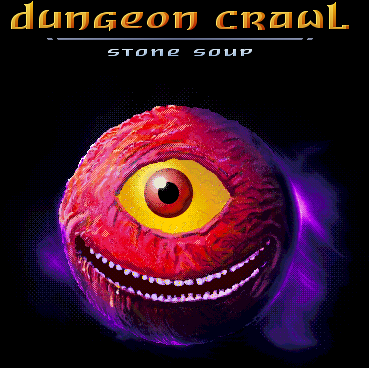
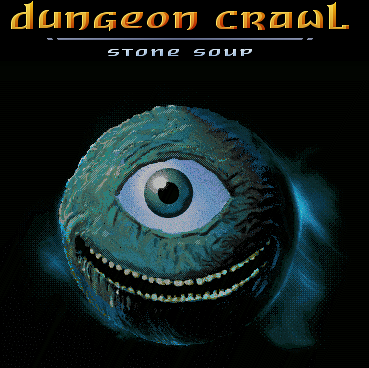
Revive eyes of draining as rare deep negative energy eyes (DracoOmega)
Another significantly revised monster revival meant mostly to help with
more variety for a branch lacking in it. Eyes of draining were removed
in 049c24a for being harmless to magic-less builds, entirely harmless
without other enemies, and being too slow (at speed 5) to actually stick
to other enemies as they were otherwise supposed to spawn with. These
revived eyes of draining try to address all of these matters, while also
dealing with a weird bit of inconsistency in "Draining Gaze" having no
connection to other draining effects

 * These now have normal speed actions, M_CAUTIOUS, and fast movement.
   (Mostly, this means trying to walk away to keep them out of LOS is
    entirely unteneable without additional help.)

 * They now count as the leader for their band, so other monsters will
   follow them if they get ahead. (They also get somewhat customized
   bands in Slime, to always place a very-loosely-connected monster
   that actually deals damage to finish the player off.)

 * They lose their previous antimagic theming to serve as a serious rN
   check, with the new Draining Gaze doing no damage to instead directly
   drain for 10% of one's max health post-draining. (Following casts will
   drain 9%, then 8.1%, then 7.29%, and so on).

(While this does lead to them being harmless to those with full rN+++,
which several species get for free, this is hardly an unknown consequence
to Crawl- compare to how harmless death drakes are to the undead species
[…]

diff --git a/crawl-ref/source/mon-cast.cc b/crawl-ref/source/mon-cast.cc
@@ -146,6 +146,7 @@ static void _cast_injury_mirror(monster &mons, mon_spell_slot, bolt&);
 static void _cast_smiting(monster &mons, mon_spell_slot slot, bolt&);
 static void _cast_brain_bite(monster &mons, mon_spell_slot slot, bolt&);
 static void _cast_beckoning_gale(monster &mons, mon_spell_slot slot, bolt&);
+static void _cast_draining_gaze(monster &mons, mon_spell_slot slot, bolt&);
 static void _cast_resonance_strike(monster &mons, mon_spell_slot, bolt&);
 static void _cast_call_down_lightning(monster &caster, mon_spell_slot, bolt&);
 static void _cast_pyroclastic_surge(monster &caster, mon_spell_slot, bolt&);
@@ -459,6 +460,14 @@ static const map<spell_type, mons_spell_logic> spell_to_logic = {
     { SPELL_SMITING, { _always_worthwhile, _cast_smiting, } },
     { SPELL_BRAIN_BITE, { _always_worthwhile, _cast_brain_bite, } },
     { SPELL_BECKONING_GALE, { _foe_not_nearby, _cast_beckoning_gale, } },
+    { SPELL_DRAINING_GAZE, {
+        [](const monster &caster) {
+            const actor* foe = caster.get_foe();
+            ASSERT(foe);
+            return _negative_energy_spell_goodness(foe);
+        },
+        _cast_draining_gaze,
+    } },
     { SPELL_CALL_DOWN_LIGHTNING, { _foe_not_nearby, _cast_call_down_lightning, _zap_setup(SPELL_CALL_DOWN_LIGHTNING) } },
     { SPELL_RESONANCE_STRIKE, { _always_worthwhile, _cast_resonance_strike, } },
     { SPELL_CREEPING_FROST, { _foe_near_wall,
@@ -481,7 +490,7 @@ static const map<spell_type, mons_spell_logic> spell_to_logic = {
             caster.get_foe()->paralyse(&caster, 2 + random2(3));
         },
     } },
-    { SPELL_DRAINING_GAZE, {
+    { SPELL_ANTIMAGIC_GAZE, {
         _caster_sees_foe,
         [](monster &caster, mon_spell_slot slot, bolt&) {
             flash_tile(caster.get_foe()->pos(), MAGENTA, 120, TILE_BOLT_DRAINING_GAZE);
@@ -1415,6 +1424,34 @@ static void _cast_brain_bite(monster &caster, mon_spell_slot slot, bolt&)
     }
     else
         foe->drain_magic(&caster, mons_spellpower(caster, slot.spell));
+}
+
+static void _cast_draining_gaze(monster &caster, mon_spell_slot, bolt&)
+{
+    actor* foe = caster.get_foe();
+    ASSERT(foe);
+    int drain = 0;
+
+    if (foe->is_player())
+    {
+        // 10% of max HP post-draining: takes 8 casts to drain to 50% at rN0,
+        // 15 at rN+, and 29 at rN++. No minimum amount.
+        flash_tile(foe->pos(), CYAN, 160, TILE_BOLT_DRAINING_GAZE);
+        drain = 75 * you.hp_max / (you.hp_max - you.hp_max_adj_temp);
+        drain_player(drain, false, false, false);
+    }
+    else
+    {
+        // 20% of HD draining, with a minimum of draining twice.
+        flash_tile(foe->pos(), CYAN, 60, TILE_BOLT_DRAINING_GAZE);
+        monster* m_foe = foe->as_monster();
+        drain = max(div_round_up(m_foe->get_experience_level()
+                                 - m_foe->get_ench(ENCH_DRAINED).degree, 5), 2);
+        if (m_foe->add_ench(mon_enchant(ENCH_DRAINED, &you, random_range(60, 150), drain)))
+            simple_monster_message(*m_foe, " is drained!");
+
+        _whack(caster, *foe);
+    }
 }
 
 static void _cast_beckoning_gale(monster &caster, mon_spell_slot, bolt&)
@@ -2585,6 +2622,7 @@ bool setup_mons_cast(const monster* mons, bolt &pbolt, spell_type spell_cast,
     case SPELL_CLEANSING_FLAME:
     case SPELL_DRAINING_GAZE:
     case SPELL_CONFUSION_GAZE:
+    case SPELL_ANTIMAGIC_GAZE:
     case SPELL_MARTYRS_KNELL:
     case SPELL_HAUNT:
     case SPELL_VANQUISHED_VANGUARD:
@@ -8034,7 +8072,8 @@ void mons_cast(monster* mons, bolt pbolt, spell_type spell_cast,
                                         60, MONS_GOLDEN_EYE,
                                         40, MONS_SHINING_EYE,
                                         20, MONS_GREAT_ORB_OF_EYES,
-                                        10, MONS_EYE_OF_DEVASTATION);
+                                        10, MONS_EYE_OF_DEVASTATION,
+                                        10, MONS_EYE_OF_DRAINING);
 
             create_monster(
                 mgen_data(mon, SAME_ATTITUDE(mons), mons->pos(), mons->foe,

diff --git a/crawl-ref/source/mon-place.cc b/crawl-ref/source/mon-place.cc
@@ -1987,6 +1987,10 @@ static const map<monster_type, band_set> bands_by_leader = {
         return branch_has_monsters(you.where_are_you)
             || !vault_mon_types.empty();
     }},                           {{ BAND_RANDOM_SINGLE, {1, 3} }}}},
+    { MONS_EYE_OF_DRAINING,        { {2, 0, []() {
+        return branch_has_monsters(you.where_are_you)
+            || !vault_mon_types.empty();
+    }},                           {{ BAND_RANDOM_SINGLE, {1, 2} }}}},
     { MONS_CEREBOV,         { {}, {{ BAND_CEREBOV, {5, 8}, true }}}},
     { MONS_GLOORX_VLOQ,     { {}, {{ BAND_GLOORX_VLOQ, {5, 8}, true }}}},
     { MONS_MNOLEG,          { {}, {{ BAND_MNOLEG, {5, 8}, true }}}},
@@ -2210,6 +2214,14 @@ static band_type _choose_band(monster_type mon_type, int *band_size_p,
             band_size = random2(min(brdepth[BRANCH_ABYSS], you.depth));
         break;
 
+    case MONS_EYE_OF_DRAINING:
+        if (player_in_branch(BRANCH_SLIME))
+        {
+            natural_leader = true;
+            band = BAND_DRAINING_EYE_CORPS;
+        }
+        break;
+
     case MONS_SPHINX_MARAUDER:
          if (player_in_branch(BRANCH_VAULTS))
          {
@@ -2411,6 +2423,10 @@ static const map<band_type, vector<member_possibilities>> band_membership = {
     { BAND_AMOEBA_ORGANS,       {{{MONS_GLASS_EYE, 2},
                                   {MONS_GLOWING_ORANGE_BRAIN, 1}}}},
 
+    { BAND_DRAINING_EYE_CORPS,  {{{MONS_VOID_OOZE, 1},
+                                  {MONS_EYE_OF_DEVASTATION, 2},
+                                  {MONS_GLOWING_ORANGE_BRAIN, 1}}}},
+
     { BAND_MARGERY,             {{{MONS_HELLEPHANT, 4},
                                   {MONS_SEARING_WRETCH, 3}},
 
@@ -2587,6 +2603,7 @@ static const map<band_type, vector<member_possibilities>> band_membership = {
                                   {MONS_SALAMANDER, 1}},
 
                                  {{MONS_SALAMANDER, 1}}}},
+
     { BAND_ROBIN,               {{{MONS_GOBLIN, 3},
                                   {MONS_HOBGOBLIN, 1}}}},
 

diff --git a/crawl-ref/source/mon-spell.h b/crawl-ref/source/mon-spell.h
@@ -784,7 +784,7 @@ static const mon_spellbook mspell_list[] =
 
     {  MST_GHOST_MOTH,
       {
-       { SPELL_DRAINING_GAZE, 100, MON_SPELL_MAGICAL | MON_SPELL_INSTANT },
+       { SPELL_ANTIMAGIC_GAZE, 100, MON_SPELL_MAGICAL | MON_SPELL_INSTANT },
       }
     },
 
@@ -1068,6 +1068,12 @@ static const mon_spellbook mspell_list[] =
       }
     },
 
+    {  MST_EYE_OF_DRAINING,
+      {
+       { SPELL_DRAINING_GAZE, 100, MON_SPELL_MAGICAL | MON_SPELL_INSTANT },
+      }
+    },
+
     {  MST_EYE_OF_DEVASTATION,
       {
        { SPELL_BOLT_OF_DEVASTATION, 60, MON_SPELL_MAGICAL },
@@ -1163,7 +1169,7 @@ static const mon_spellbook mspell_list[] =
     {  MST_ORANGE_CRYSTAL_STATUE,
       {
        { SPELL_SHADOW_CREATURES, 50, MON_SPELL_MAGICAL },
-       { SPELL_DRAINING_GAZE, 25, MON_SPELL_MAGICAL },
+       { SPELL_ANTIMAGIC_GAZE, 25, MON_SPELL_MAGICAL },
        { SPELL_MASS_CONFUSION, 25, MON_SPELL_MAGICAL },
       }
     },
@@ -2498,7 +2504,7 @@ static const mon_spellbook mspell_list[] =
 
     {  MST_NORRIS,
       {
-       { SPELL_DRAINING_GAZE, 36, MON_SPELL_PRIEST },
+       { SPELL_ANTIMAGIC_GAZE, 36, MON_SPELL_PRIEST },
        { SPELL_PRIMAL_WAVE, 30, MON_SPELL_PRIEST },
       }
     },

diff --git a/crawl-ref/source/mon-pick-data.h b/crawl-ref/source/mon-pick-data.h
@@ -199,9 +199,7 @@ static const vector<pop_entry> population[] =
   { 24, 27,   22, RISE, MONS_VAMPIRE_KNIGHT },
   { 24, 27,  136, RISE, MONS_TENGU_REAVER },
   { 24, 27,    8, RISE, MONS_DANCING_WEAPON },
-  { 24, 27,   25, FLAT, MONS_WAR_GARGOYLE },
-  { 27, 27,   18, FLAT, MONS_SHADOW_DRAGON },
-  { 27, 27,    8, FLAT, MONS_IRON_DRAGON },
+  { 25, 28,   50, RISE, MONS_EYE_OF_DRAINING },
 },
 
 { // Temple
@@ -468,13 +466,14 @@ static const vector<pop_entry> population[] =
   {  1,  5,  500, FLAT, MONS_AZURE_JELLY },
   {  1,  5,  515, FLAT, MONS_ROCKSLIME },
   {  1,  5,  515, FLAT, MONS_VOID_OOZE },
-  {  1,  5,  515, FLAT, MONS_SHINING_EYE },
+  {  1,  5,  500, FLAT, MONS_SHINING_EYE },
   {  1,  5,  200, FLAT, MONS_GOLDEN_EYE },
   {  1,  5,  200, FLAT, MONS_FORMLESS_JELLYFISH },
   {  1,  8,  300, SEMI, MONS_EYE_OF_DEVASTATION },
-  {  1,  8,  265, SEMI, MONS_GREAT_ORB_OF_EYES },
+  {  1,  8,  255, SEMI, MONS_GREAT_ORB_OF_EYES },
   {  2,  5,  100, RISE, MONS_GLOWING_ORANGE_BRAIN },
   {  2,  8,  315, SEMI, MONS_GLASS_EYE },
+  {  3,  8,   40, SEMI, MONS_EYE_OF_DRAINING },
 },
 
 { // The Vaults (OOD cap: 12)

diff --git a/crawl-ref/source/util/monster/monster-main.cc b/crawl-ref/source/util/monster/monster-main.cc
@@ -265,9 +265,9 @@ static string mi_calc_pyre_arrow_damage(monster* mons)
     return make_stringf("2d%d*", 2 + mons->get_hit_dice() * 12 / 14);
 }
 
-static string mi_calc_draining_gaze_drain(monster* mons)
+static string mi_calc_antimagic_gaze_drain(monster* mons)
 {
-    const int pow = mons_power_for_hd(SPELL_DRAINING_GAZE, mons->get_hit_dice());
+    const int pow = mons_power_for_hd(SPELL_ANTIMAGIC_GAZE, mons->get_hit_dice());
     return make_stringf("0-%d MP", pow / 8);
 }
 
@@ -358,8 +358,8 @@ static string mons_human_readable_spell_damage_string(monster* monster,
             return mi_calc_brain_bite_damage(monster);
         case SPELL_PYRE_ARROW:
             return mi_calc_pyre_arrow_damage(monster);
-        case SPELL_DRAINING_GAZE:
-            return mi_calc_draining_gaze_drain(monster);
+        case SPELL_ANTIMAGIC_GAZE:
+            return mi_calc_antimagic_gaze_drain(monster);
         case SPELL_AIRSTRIKE:
         case SPELL_SLEETSTRIKE:
             return mi_calc_airstrike_damage(monster, sp);

diff --git a/crawl-ref/source/ouch.cc b/crawl-ref/source/ouch.cc
@@ -527,8 +527,17 @@ bool drain_player(int power, bool announce_full, bool ignore_protection, bool qu
         dprf("Drained by %d max hp (%d total)", mhp, you.hp_max_adj_temp);
         calc_hp();
 
+        string intensifier = "";
+        int perc = 100 * -you.hp_max_adj_temp / get_real_hp(false, false);
+        if (perc >= 50)
+            intensifier = "extremely ";
+        else if (perc >= 30)
+            intensifier = "very heavily ";
+        else if (perc >= 20)
+            intensifier = "heavily ";
+
         if (!quiet)
-            mpr("You feel drained.");
+            mprf("You feel %sdrained.", intensifier.c_str());
         xom_is_stimulated(15);
         return true;
     }

diff --git a/crawl-ref/source/spl-data.h b/crawl-ref/source/spl-data.h
@@ -2912,15 +2912,27 @@ static const struct spell_desc spelldata[] =
 },
 
 {
-    SPELL_DRAINING_GAZE, "Draining Gaze",
+    SPELL_ANTIMAGIC_GAZE, "Antimagic Gaze",
     spschool::hexes,
     spflag::target | spflag::monster,
     5,
     200,
     LOS_RADIUS, LOS_RADIUS,
     0,
+    TILEG_ANTIMAGIC_GAZE,
+},
+
+{
+    SPELL_DRAINING_GAZE, "Draining Gaze",
+    spschool::necromancy,
+    spflag::target | spflag::monster,
+    4,
+    200,
+    LOS_RADIUS, LOS_RADIUS,
+    0,
     TILEG_DRAINING_GAZE,
 },
+
 
 {
     SPELL_WEAKENING_GAZE, "Weakening Gaze",

diff --git a/crawl-ref/source/spell-type.h b/crawl-ref/source/spell-type.h
@@ -440,7 +440,7 @@ enum spell_type : int
     SPELL_AVATAR_SONG,
     SPELL_PARALYSIS_GAZE,
     SPELL_CONFUSION_GAZE,
-    SPELL_DRAINING_GAZE,
+    SPELL_ANTIMAGIC_GAZE,
     SPELL_DEATH_RATTLE,
     SPELL_SUMMON_SCARABS,
 #if TAG_MAJOR_VERSION == 34
@@ -651,5 +651,6 @@ enum spell_type : int
     SPELL_DOOMSAYING,       // Cassandra's one-shot doom and death effect
     SPELL_SLEETSTRIKE,
     SPELL_DIMINISH_SPELLS,
+    SPELL_DRAINING_GAZE,
     NUM_SPELLS
 };

diff --git a/crawl-ref/source/monster.cc b/crawl-ref/source/monster.cc
@@ -2309,6 +2309,7 @@ string monster::hand_name(bool plural, bool *can_plural) const
             case MONS_GLASS_EYE:
             case MONS_SHINING_EYE:
             case MONS_EYE_OF_DEVASTATION:
+            case MONS_EYE_OF_DRAINING:
             case MONS_GOLDEN_EYE:
                 *can_plural = false;
                 // Deliberate fallthrough.

diff --git a/crawl-ref/source/describe-spells.cc b/crawl-ref/source/describe-spells.cc
@@ -540,7 +540,7 @@ static string _effect_string(spell_type spell, const monster_info *mon_owner,
     if (spell == SPELL_BRAIN_BITE)
         return "4-8*"; // >_>
 
-    if (spell == SPELL_DRAINING_GAZE)
+    if (spell == SPELL_ANTIMAGIC_GAZE)
         return make_stringf("0-%d MP", pow / 8); // >_> >_>
 
     if (spell == SPELL_WIND_BLAST)

diff --git a/crawl-ref/source/monster-type.h b/crawl-ref/source/monster-type.h
@@ -176,9 +176,7 @@ enum monster_type                      // env.mons[].type
     MONS_FLOATING_EYE,               // genus
 #endif
     MONS_GLASS_EYE,
-#if TAG_MAJOR_VERSION == 34
     MONS_EYE_OF_DRAINING,
-#endif
     MONS_SHINING_EYE,
     MONS_EYE_OF_DEVASTATION,
     MONS_GREAT_ORB_OF_EYES,

diff --git a/crawl-ref/source/mgen-enum.h b/crawl-ref/source/mgen-enum.h
@@ -146,6 +146,7 @@ enum band_type
     BAND_ROCK_FISH,
     BAND_UNDERTAKERS,
     BAND_AMOEBA_ORGANS,
+    BAND_DRAINING_EYE_CORPS,
     NUM_BANDS                   // always last
 };
 
